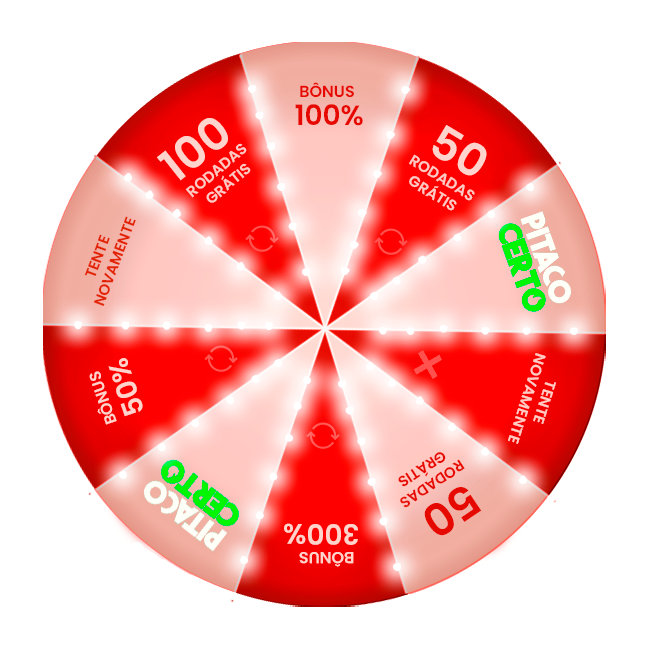
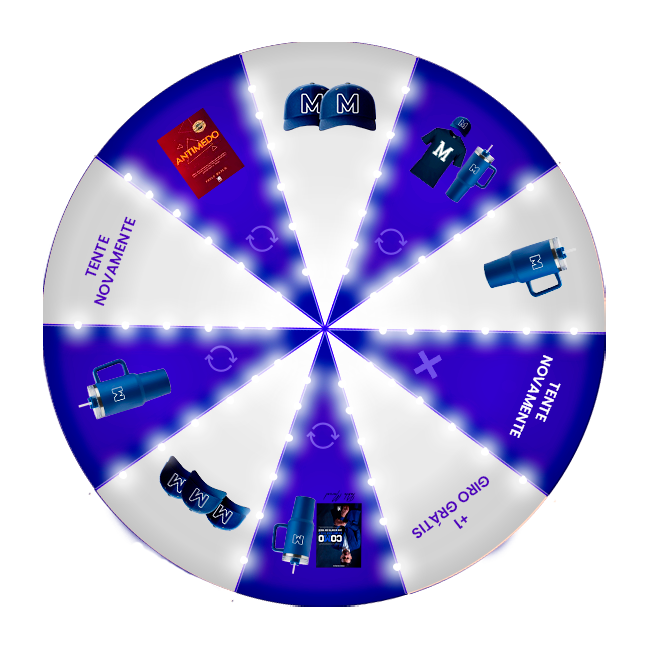
novo

diff --git a/public/index.html b/public/index.html
@@ -13,10 +13,10 @@
     <meta name="viewport" content="width=device-width, initial-scale=1.0">
     <meta content="telephone=no" name="format-detection">
     <meta name="HandheldFriendly" content="true">
-    <title>300% + 50FS</title>
+    <title>Pablo Marçal - Roleta</title>
     <link rel="apple-touch-icon" sizes="180x180" href="images/apple-touch-icon.png">
-    <link rel="icon" type="image/png" sizes="32x32" href="images/favicon-32x32.png">
-    <link rel="icon" type="image/png" sizes="16x16" href="images/favicon-16x16.png">
+    <link rel="icon" type="image/png" sizes="32x32" href="images/favicon.png">
+    <link rel="icon" type="image/png" sizes="16x16" href="images/favicon.png">
     <meta name="msapplication-TileColor" content="#da532c">
     <meta name="theme-color" content="#ffffff">
     <link rel="stylesheet" href="css/main.css">
@@ -194,13 +194,13 @@
   <body>
     <div class="main">
       <div class="main__container">
-        <header class="header"><a class="header__logo redirectlink"><img class="header__logo-img" src="images/logo.png" alt="Pinup"><img class="header__logo-img tiger" src="images/tiger_logo_en.png" alt="Tiger"></a></header>
+        <header class="header"><a class="header__logo redirectlink"></a></header>
         <div class="decor-items">
-          <div class="decor-items__container"><img class="decor-items__item decor-items__coins" src="images/coins.png" alt="coins"><img class="decor-items__item decor-items__coins_portrait" src="images/coins.png" alt="coins"><img class="decor-items__item decor-items__flag" src="images/flag.png" alt="flag"><img class="decor-items__item decor-items__tiger1 paralax-item" src="images/tiger1.png" alt="tiger1"><img class="decor-items__item decor-items__tiger2 paralax-item" src="images/tiger2.png" alt="tiger2"></div>
+          <div class="decor-items__container"><img class="decor-items__item decor-items__coins" src="images/coins.png" alt="coins"><img class="decor-items__item decor-items__coins_portrait" src="images/coins.png" alt="coins"><img class="decor-items__item decor-items__flag" src="images/flag.png" alt="flag"><img class="decor-items__item decor-items__tiger1 paralax-item" src="images/tiger1.png" alt="tiger1"><img class="decor-items__item decor-items__tiger2 paralax-item" src="images/pablo2.png" alt="tiger2"></div>
         </div>
         <div class="ribbons">
           <div>
-            <div class="ribbons__title_red"><span class="ribbons__text">Inscreva-se, jogue, ganhe!</span></div>
+            <div class="ribbons__title_red"><span class="ribbons__text">Faça a diferença, faz o M!</span></div>
           </div>
         </div>
         <div class="wheel main__new-wheel">

diff --git a/public/css/main.css b/public/css/main.css
@@ -482,7 +482,7 @@ body {
 
 @media screen and (max-width: 479.9px) {
     body {
-        background:url(../images/bg-mob.jpg) 50% 50%/cover no-repeat;
+        background:url(../images/bg-mob.jpeg) 50% 50%/cover no-repeat;
         overflow-y: auto
     }
 }
@@ -1638,8 +1638,8 @@ body {
 }
 
 .ribbons__title_red {
-    background-color: #ff2400;
-    color: #fff;
+    background-color: #ffffff;
+    color: #0011ff;
     display: inline-block;
     font-size: 4.44vh;
     font-weight: 700;
@@ -1649,6 +1649,7 @@ body {
     padding: 0 2vh;
     height: 7.4vh;
     line-height: 7.4vh
+    
 }
 
 @media screen and (orientation: portrait) {
@@ -1759,7 +1760,7 @@ body {
 }
 
 .decor-items__coins {
-    width: 100vw;
+    width: 0vw;
     bottom: 0;
     left: 0;
     -webkit-animation: pulseAnimation 5s ease-in-out infinite;
@@ -1767,7 +1768,7 @@ body {
 }
 
 .decor-items__coins_portrait {
-    height: 100vw;
+    height: 1vw;
     top: 0;
     left: -50vw;
     -webkit-animation: pulseAnimation90 5s ease-in-out infinite;
